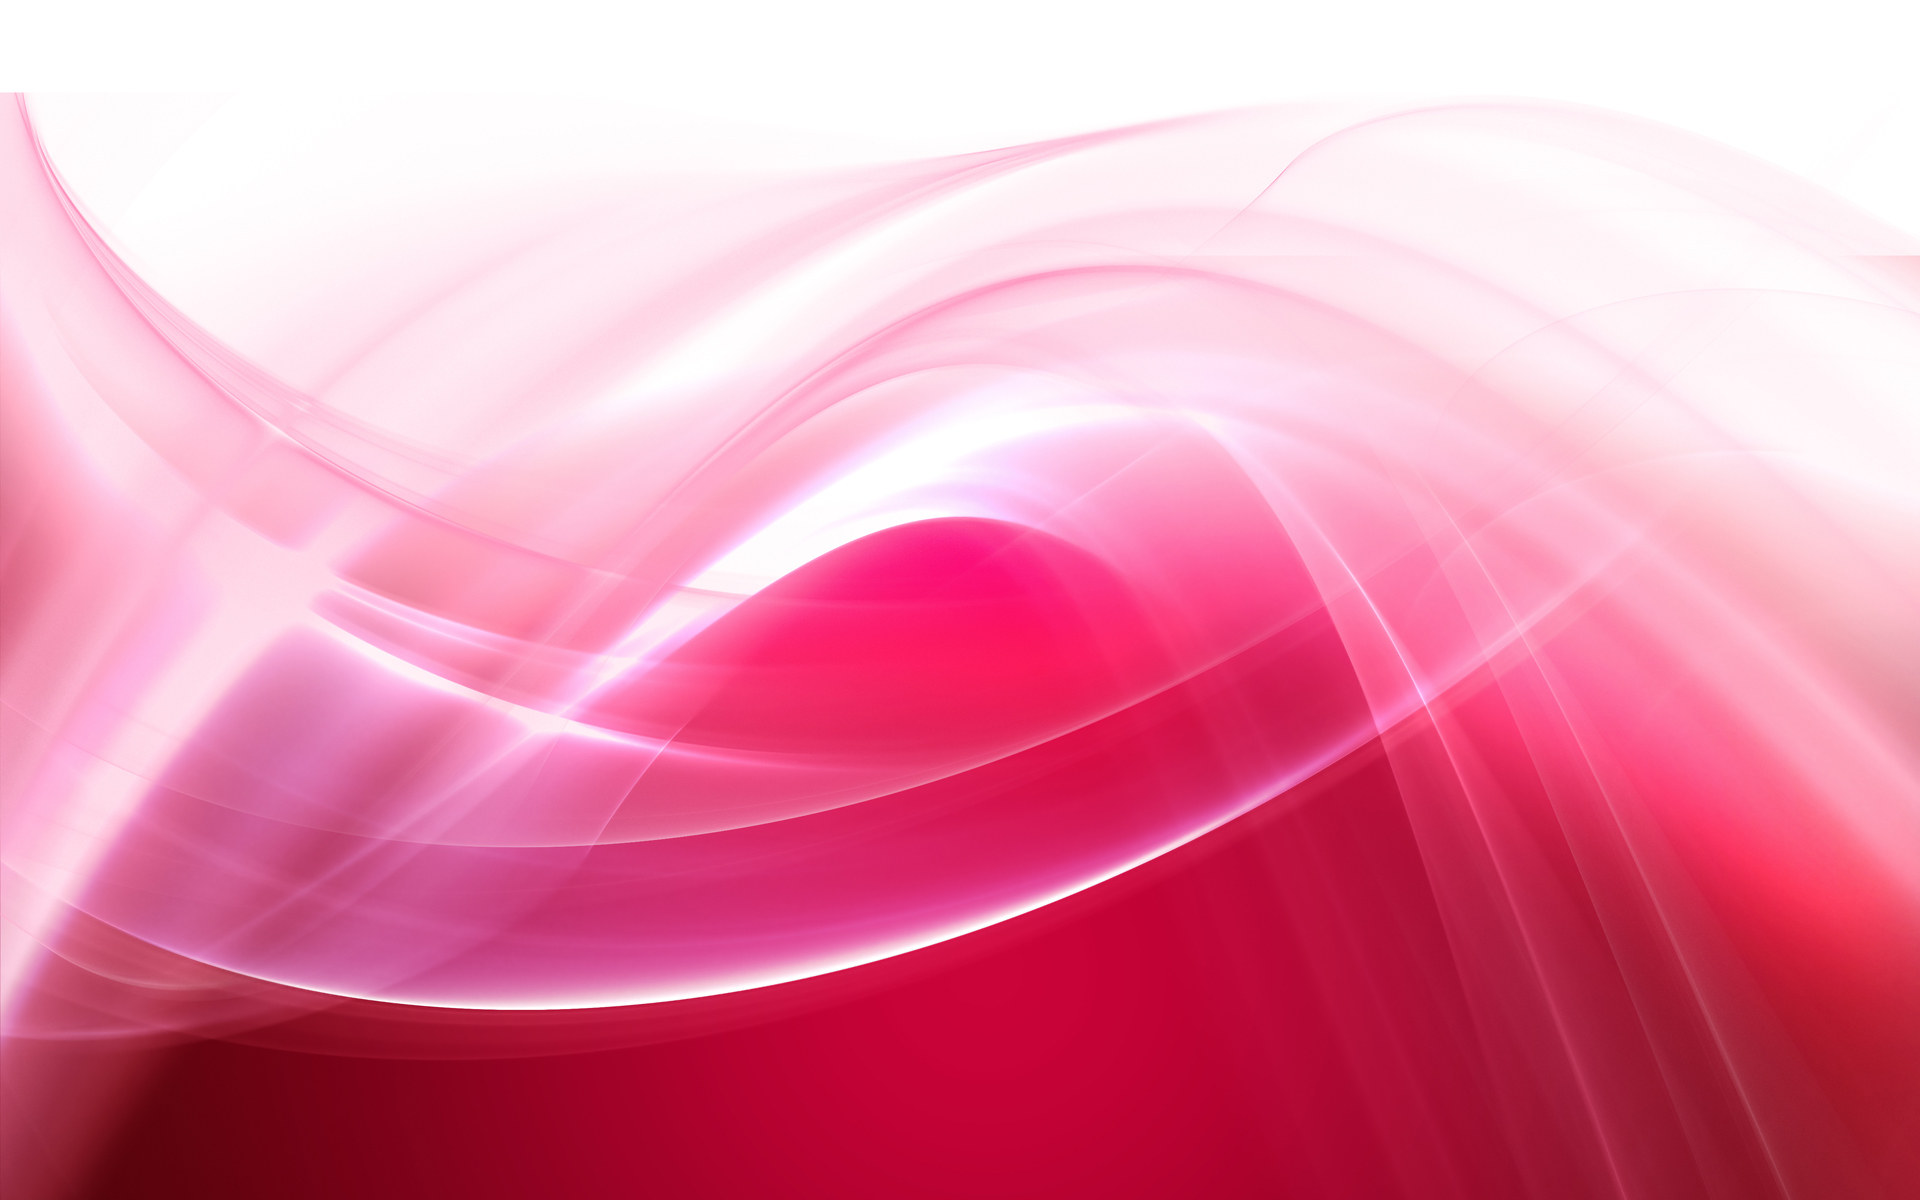
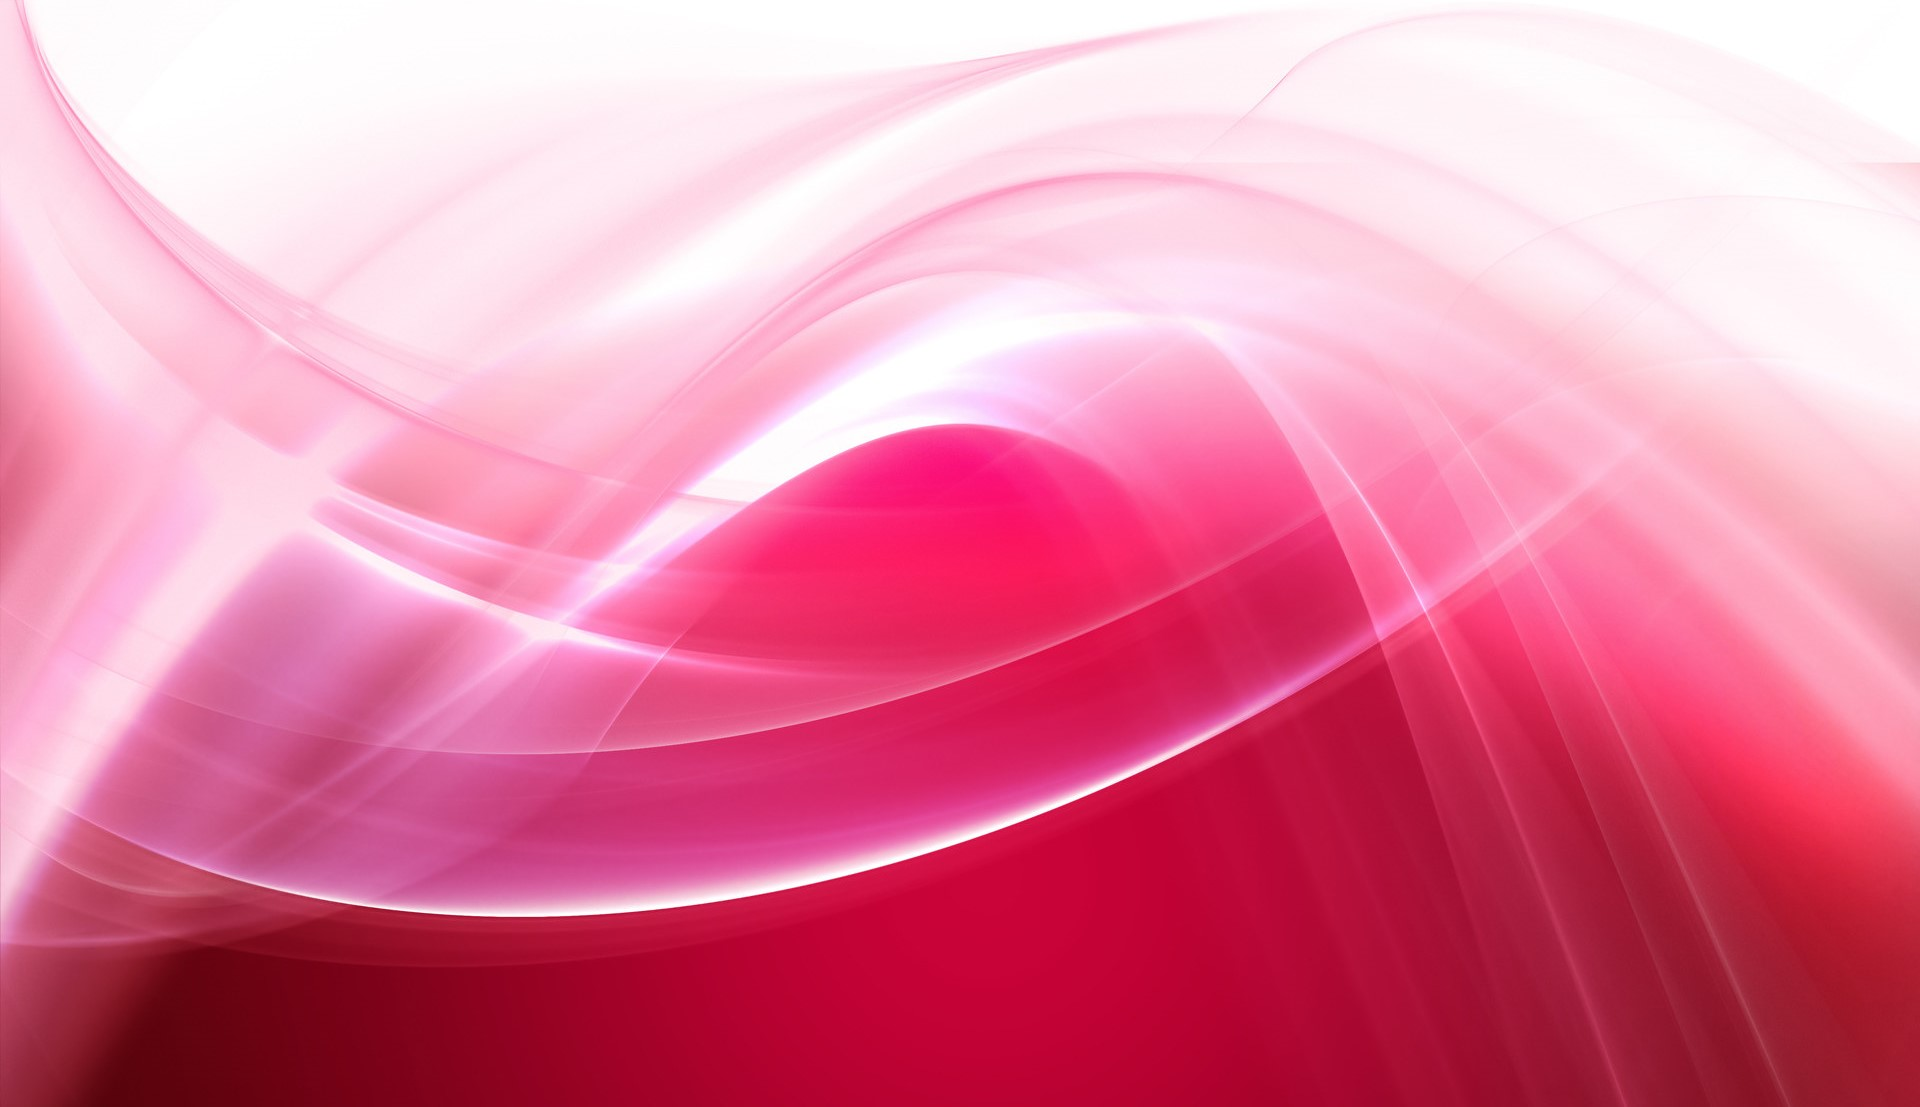
.

diff --git a/templates/aboutme.html b/templates/aboutme.html
@@ -1,0 +1,32 @@
+<div id="aboutme">
+	<h1>About Artist</h1>
+	<br>
+	<div>
+		At just eighteen, Diana Gloster arrived in London with the hope ofrealizing her dream. Theyoung girl was finally able to overcome parental opposition, convincing her parents that she had enough ability to build a future in the world of music. The artist remembers that moment as one of the happiest of her life. Diana thus abandoned her studies in law to dedicate herself to this risky and tempting adventure.
+	</div>
+	<br>
+	<div>
+	Perhaps as a result of the loneliness of those first months in London, the young singer decided to unleash an incredible explosion of creativity that was housed inside her, a decision that would change her life forever. Camera in hand, and by her own financial means, she created a video blog, hosted on her own YouTube channel, ‘JustDlady’, achieving more than one hundred thousand subscribers in just a few months. The eclecticism of her videos - in which she shares her experiences, trips, ambitions, fashion trends  and a capella cover versions of songs by internationally-renowned artists soon allowed her channel to became a phenomenon upon the website.
+	</div>
+	<br>
+	<div>
+	Since childhood, Diana has lived immersed in an atmosphere of creativity that has predisposed her toward artistic expression, with her main points of reference coming from her maternal family. At just five years old, every time she visited her grandmother she performed and sang to the neighbors, surprising everyone with her sweetness, beauty and angelic voice.  It is at that early age that she also began to play the piano. She does not fondly recall her school years, with peers marginalizing her, seeing the talents that lay within her as something that made her different from others. But her marked personality and strong character allowed her to overcome the difficulties of her youth, with Diana not only becoming school president, but also beginning to prepare herself thoroughly for what, years later, would become a promising career in the music industry. Diana combined her studies with dance and music classes, taking every opportunity and proving herself to be the antithesis of uniformity.
+	</div>
+	<br>
+	<div>
+	In 2013, while studying music production at Ravensbourne College London, Diana undertook her first modeling work. Her spontaneity and her extraordinary photogenic qualities, present in the videos that she uploads to YouTube, brought her to the attention of the organizers of Top Model Worldwide, one of the most important international modeling competitions, where she was awarded first place.
+	The opportunities did not stop coming. Before long, Diana was able to combine her work as a model with her trips as a presenter on the internationalfashion channel Fashion ID, thanks to the artist’s video blog bringing her to the attention of the channel’s manager, with her spontaneity and striking beauty leading them to convene a first casting. Since its inception, thanks to the natural flow of the program, Diana becomes the most popular face of the channel. Thus she began her travels around the world, covering the most important Fashion Weeks across the globe.
+	</div>
+	<br>
+	<div> 
+	In 2014, at the age of twenty, she premiered her first film titled‘The Cake’. Once again, her YouTube channel was responsible for her casting, drawing her to the attention of the film's director, who personally invited her for an audition.The young artist debuts with success on the big screen in one of the film’s leading roles.
+	</div>
+	<br>
+	<div> 
+	But at the forefront of the young starlet’s mind were her huge desire to grow and her passion for music.  The singer left no stone unturned in her quest to build a future in themusic industry. In addition, to help her continue to compose her own songs, she attended singing, piano and dance classes in London with a number of prestigious teachers. After years knocking on countless doors, sending her covers to producers and record labels, she got her first big break. The German group, Respectable House, with over forty years of experience in entertainment, media and showbusiness, offered her a collaboration with the renowned producer, composer and arranger Onree Gill, known for his work with artists such as Alicia Keys, Britney Spears and Jennifer Hudson. Immersed in the production of her first album, with songs composed with the renowned New Yorker, and with guidance from Grammy Award-winning producers Prince Charles Alexander and Eddie Amador, Diana will launch her debut album ‘All or Nothing’ in Spring 2016. The LP includes her first single, 'Buona Sera', which fuses pop with Latin rhythms, and which has already begun to conquer the dancefloor, receiving a great reception from critics and audiences alike. On the album, she performs other songs including 'Burn Up!', 'Let the Music Rise' and 'Fire', with the final of these containing an amazing contribution from renowned American saxophonist Maceo Parker, genius of funk and soul, known for his work with music legends such as James Brown, Parliament-Funkadelic and Ray Charles, as well as his more recent collaborations with artists including Red Hot Chili Peppers and Prince.
+	 </div>
+	 <br>
+	 <div>
+	After years of hard work, Diana Gloster has managed to create a niche for herself within the music industry. She still resides in London, a city to which her parents and four sisters have recently moved. In the UK’s capitalshe continues her intense training, with legions of followers on YouTube who hold her up as a trend icon. With just twenty-two years of age, Diana Gloster has landed, and she is here to stay. Her debut album emanates a fresh and a special charisma that identify her as one of the emerging talents on the international music scene.
+	</div>
+	</div>

diff --git a/templates/free.html b/templates/free.html
@@ -1,0 +1,43 @@
+<div class="panel">
+		<div class="panel-heading">Free Downloads</div>
+		<table class="table">
+				<caption>Below you will find a list of Free downloads</caption>
+				<thead>
+					<tr>
+						<th>Title</th>
+						<th>Artist</th>
+						<th>Download</th>
+					</tr>
+				</thead>
+				<tbody>
+					<tr>
+						<td>Buona Sera</td>
+						<td>Diana Gloster</td>
+						<td><button type="button" class="btn btn-default btn-sm">
+          				<span class="glyphicon glyphicon-download-alt"></span><a href="assets/audio/Clarksville.mp3" download> Download</a>
+        				</button></td>
+					</tr
+					<tr>
+						<td>Fire</td>
+						<td>Diana Gloster</td>
+						<td><button type="button" class="btn btn-default btn-sm">
+          				<span class="glyphicon glyphicon-download-alt"></span><a href="assets/audio/DaydreamBeliever.mp3" download> Download</a>
+        				</button></td>
+					</tr>
+					<tr>
+						<td>Song</td>
+						<td>Diana Gloster</td>
+						<td><button type="button" class="btn btn-default btn-sm">
+          				<span class="glyphicon glyphicon-download-alt"></span><a href="assets/audio/ImABeliever.mp3" download> Download</a>
+        				</button></td>
+					</tr>
+					<tr>
+						<td>Song</td>
+						<td>Diana Gloster</td>
+						<td><button type="button" class="btn btn-default btn-sm">
+          				<span class="glyphicon glyphicon-download-alt"></span><a href="assets/audio/SteppingStone.mp3" download> Download</a>
+        				</button></td>
+					</tr>
+				</tbody>
+		</table>
+	</div>

diff --git a/index.html b/index.html
@@ -12,7 +12,7 @@
     <script type="text/javascript" src="bower_components/angular/angular.js"></script>
     <script type="text/javascript" src="bower_components/angular-route/angular-route.js"></script>
     <script type="text/javascript" src="bower_components/a0-angular-storage/dist/angular-storage.js"></script>
-    <link href="https://fonts.googleapis.com/css?family=Ubuntu" rel="stylesheet">
+   <link href="https://fonts.googleapis.com/css?family=Dosis" rel="stylesheet">
     <link rel="stylesheet" type="text/css" href="css/style.css">
     <link href="https://maxcdn.bootstrapcdn.com/font-awesome/4.7.0/css/font-awesome.min.css" rel="stylesheet">
   	<link rel="stylesheet" type="text/css" href="css/style.css">
@@ -62,9 +62,9 @@
 			</div>
 		</div>
 	</nav>	
-    <div ng-view>
-
-    </div>
+<div ng-view>
+	
+</div>
 <script src='js/app.js'></script>
 <script src='js/controller.js'></script>
 <script src='js/service.js'></script>

diff --git a/css/style.css b/css/style.css
@@ -1,8 +1,30 @@
 body{
 	padding-top: 80px;
-	background-image: url('../pics/background2.jpg');
+	font-family: 'Dosis', sans-serif;
 }
 
+.content:before {
+	content: "";
+	position: fixed;
+	top: 50px;
+	left: 0;
+	right: 0;
+	bottom: 0;
+	z-index: -1;
+	display: block;
+	background-image: url('../pics/background2.jpg');
+	background-size:cover;
+	width: 100%;
+	height: 100%;
+}
+
+.content {
+	overflow: auto;
+	overflow-y:hidden;
+	position: relative;
+}
+
+/*navbar color*/
 .navbar-default {
   background-color: #fa2371;
   border-color: #fe8cb8;
@@ -129,4 +151,24 @@ column-count: 1;
   height: 100%;
 }
 
-/*scrollbar*/
+/*about artist*/
+
+#aboutme{
+	padding-left: 40px;
+	padding-right: 40px;
+	padding-bottom: 50px;
+	font-size: 150%;
+}
+
+/*free downloads*/
+.panel{
+	margin-left: 80px;
+	margin-right: 80px;
+}
+.panel-heading{
+	font-style: bold;
+	font-size: 200%;
+}
+.free{
+	font-size: 150%;
+}

diff --git a/js/app.js b/js/app.js
@@ -7,7 +7,7 @@ angular.module('DianaWeb').config(function($locationProvider, $routeProvider) {
         templateUrl: 'templates/home.html',
         controller: 'HomeController'
     })
-  		.when('/aboutMe', {
+  		.when('/aboutme', {
 			templateUrl:'templates/aboutme.html',
 	})
 		.when('/photos', {
@@ -19,6 +19,9 @@ angular.module('DianaWeb').config(function($locationProvider, $routeProvider) {
 		.when('/buy', {
 			templateUrl: 'templates/buy.html'
 	})
+		.when('/free',{
+			templateUrl: 'templates/free.html'
+		})
 		.when('/video', {
 			templateUrl: 'templates/videos.html'
 	})
